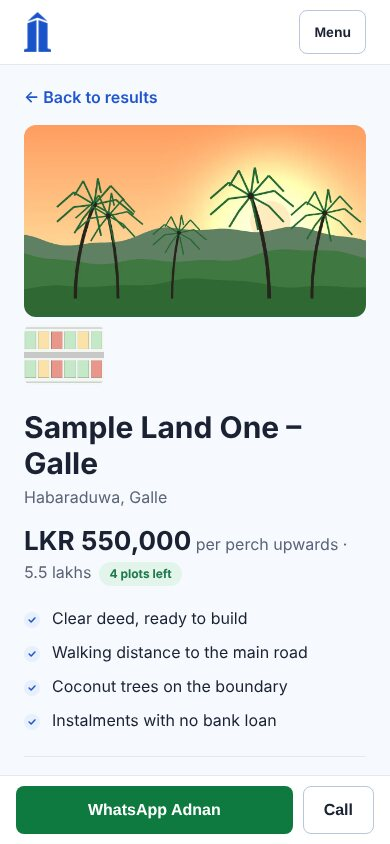
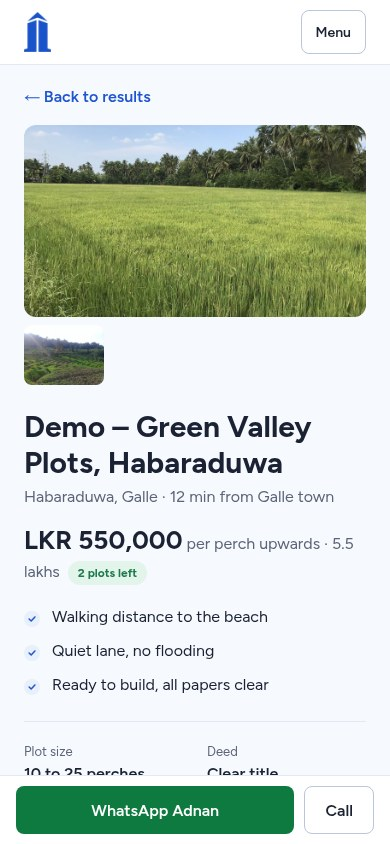
docs: retake the public-page screenshots from the live demo with the real photos

diff --git a/README.md b/README.md
@@ -9,9 +9,9 @@
 
 A real-estate website for Sri Lanka (lands, houses and apartments) with a built-in admin that staff can use without touching code, and a private portal where customers follow what they have bought. It runs entirely on Cloudflare's free tier.
 
-<p align="center"><img src="docs/images/hero.jpg" alt="The home page, a land listing with plots and prices, and the same listing on a phone" width="100%"></p>
+<p align="center"><img src="docs/images/hero.jpg" alt="The home page with three land listings and real photos, and a listing on a phone" width="100%"></p>
 
-<p align="center"><sub>Screenshots of a local copy with the sample data from <code>demo/</code>. They were taken before the real sample photos were added, so the listing pictures in them are the old drawn ones. The demo data now uses real photographs, credited in <a href="docs/Photo%20credits.md">Photo credits</a>. The live demo does not show listing photos yet.</sub></p>
+<p align="center"><sub>The public pages are screenshots of the <a href="https://ascendproperties-lk.makkoacknowledgesstress.workers.dev">live demo</a>. The plots table, the admin and the customer portal are not on the live demo or need a login, so those pictures come from a local copy with the sample data from <code>demo/</code>. The listing photos are real photographs from Wikimedia Commons, credited in <a href="docs/Photo%20credits.md">Photo credits</a>.</sub></p>
 
 Buyers pick an area and a budget and see the real price per perch and the payment plan. Staff add listings from a phone. Customers sign in and see their balance, receipts and documents. It is modelled on how primelands.lk works, and [the research](docs/PRIMELANDS-RESEARCH.md) shows the evidence.
 

diff --git a/CHANGELOG.md b/CHANGELOG.md
@@ -8,7 +8,8 @@
 4. A Checks workflow, CONTRIBUTING, SECURITY and issue and pull request templates.
 5. Fixed the README: uploaded photos are shrunk to JPEG in the browser (maximum 1,600 pixels), not WebP.
 6. The sample listings now use real photographs from Wikimedia Commons, with credits and licences in `docs/Photo credits.md`, instead of drawn pictures. Only the plot plan is still drawn.
-7. Added an MIT licence, a link and badge for the live demo, a short legal section and a social preview picture.
+7. The public-page pictures in the README are now screenshots of the live demo, taken with the real photos on.
+8. Added an MIT licence, a link and badge for the live demo, a short legal section and a social preview picture.
 
 ## Rebuilt on Astro and Cloudflare (October 2026)
 
